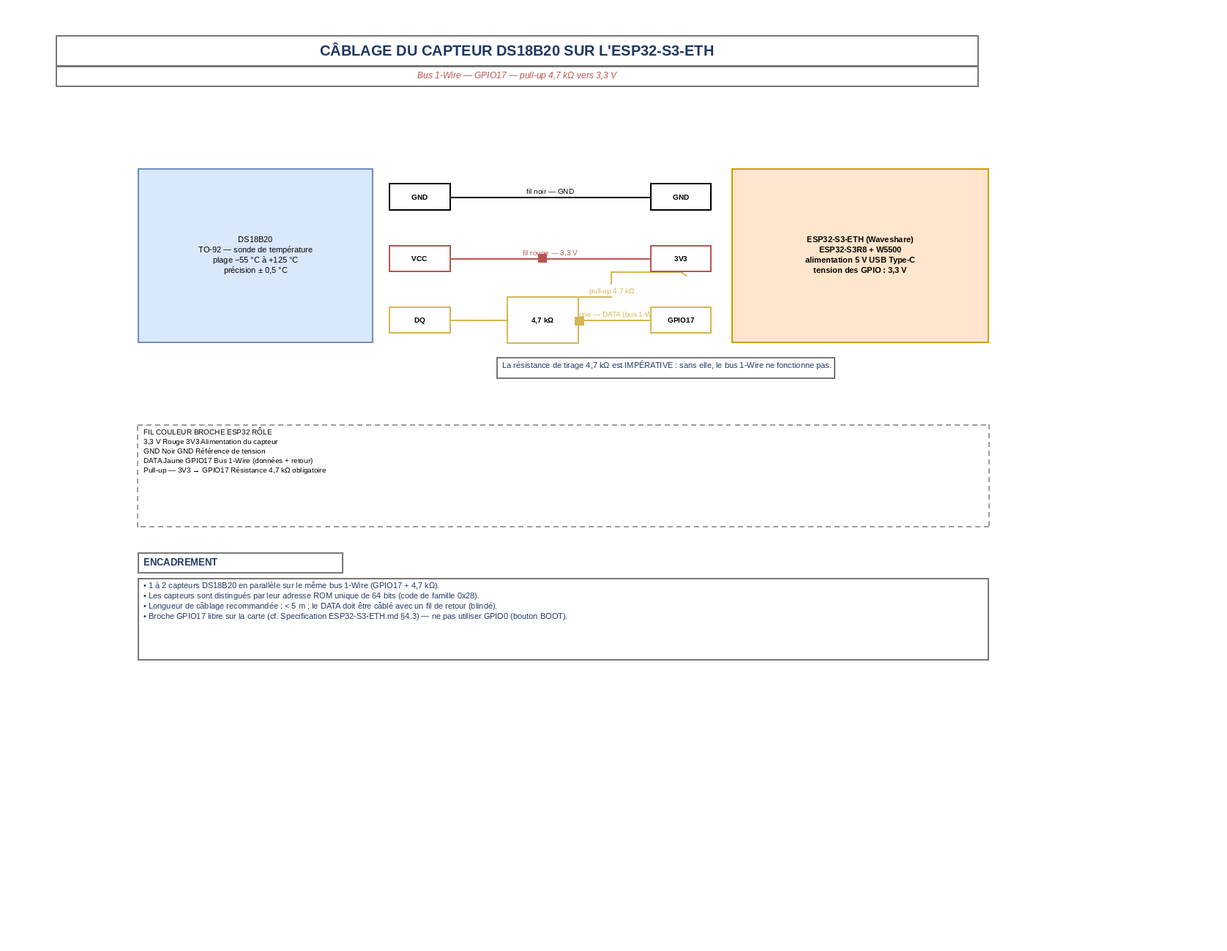
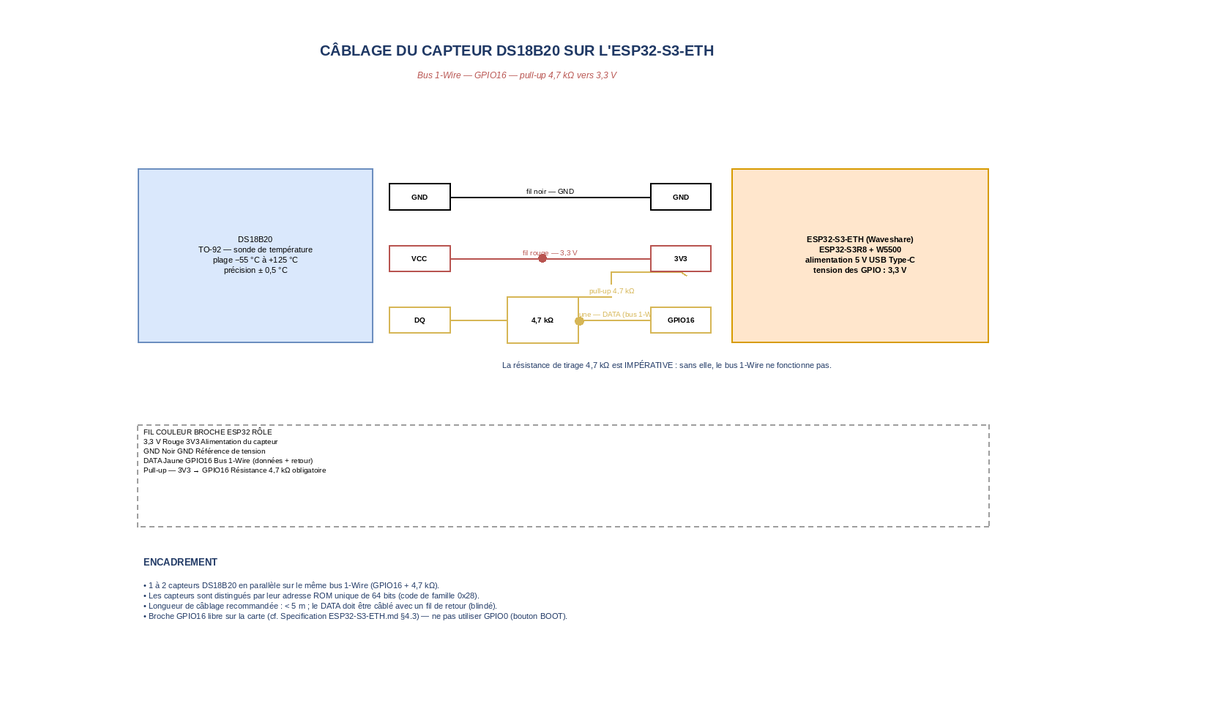
Integre les croquis manuscrits, passe en GPIO16 et fiabilise les schemas
- images/recto.jpg et images/verso.jpg : croquis de travail manuscrits
  (plan d'implantation des batiments, architecture, cas d'utilisation)
  integres dans le cahier des charges (5.3, 5.8, 5.10)

- GPIO17 -> GPIO16 sur tous les documents et schemas (broche libre, non
  utilisee par le W5500, la carte TF ni l'interface camera)

- Topologie alignee sur les croquis : firewall en salle machine de
  Copernic, serveur de supervision (VM Debian) en salle machine de
  Fauriel (aile B), liaison Ethernet inter-sites ~2 km

- Plus aucune mention de CheckMK ni de SNMP

- Schema 5.1 : deux switchs (Copernic / Fauriel), VM en salle 2
- Schema 5.4 : plan detaille (bureau DSI, salle 0-13, ailes A/B/C,
  1 baie serveur + 2 baies switch, 2 km)
- Schemas 5.3 / 5.6 : acteurs UML corrects (silhouettes, nom sous la
  figure), apercus PNG regeneres
- schema cablage.png : regenere sur la nouvelle topologie

diff --git a/Cahier des charges capteur de température.md b/Cahier des charges capteur de température.md
@@ -7,7 +7,7 @@
 | **Projet** | Supervision thermique des salles serveurs |
 | **Porteurs** | Établissements IRUP (bâtiment Copernic) et ISTP (bâtiment Fauriel) |
 | **Auteur** | Noah THEVENON — BTS CIEL 2025 |
-| **Documents liés** | [Spécification ESP32-S3-ETH](./Specification%20ESP32-S3-ETH.md) · [Schémas Draw.io](./schemas/) |
+| **Documents liés** | [Spécification ESP32-S3-ETH](./Specification%20ESP32-S3-ETH.md) · [Schémas Draw.io](./schemas/) · [Croquis de travail](./images/) |
 
 ---
 
@@ -15,8 +15,9 @@
 
 **Infrastructure de l'IRUP et de l'ISTP**
 
-- Les établissements IRUP (bâtiment **Copernic**) et ISTP (bâtiment **Fauriel**) disposent chacun d'une **salle serveurs**, soit **2 salles serveurs** au total.
+- Les établissements IRUP (bâtiment **Copernic**, 2 rue Copernic) et ISTP (bâtiment **Fauriel**) disposent chacun d'une **salle serveurs**, soit **2 salles serveurs** au total.
 - Ces salles hébergent des **équipements critiques** : serveurs, équipements réseau, firewall.
+- Les deux bâtiments sont distants d'environ **2 km** et sont reliés par le **réseau Ethernet** de l'établissement (salle machine → salle machine).
 - Une **panne de climatisation** peut provoquer une surchauffe des équipements informatiques et perturber les services.
 - **Aucune supervision thermique automatisée** n'est en place.
 - Extension prévue à la salle machine de BTS CIEL.
@@ -38,12 +39,12 @@ Surveiller en continu la température des salles serveurs et être alerté autom
 
 - Surveiller la température des deux salles serveurs **en continu**.
 - Alerter automatiquement en cas de température dépassant une plage autorisée.
-- Afficher les températures sur un écran dans le bureau informatique.
+- Afficher les températures sur un écran dans le bureau DSI.
 - Rendre les données consultables sur une **page Web de supervision**.
 - Conserver un **historique** des températures de chaque salle.
 - Permettre la **gestion des utilisateurs** ( Administrateur et User ).
 
-> Les seuils, la périodicité de mesure et la durée de conservation de l'historique sont les **critères de validation** du projet : ils sontulfillables et mesurables (§4.3, §5.7).
+> Les seuils, la périodicité de mesure et la durée de conservation de l'historique sont les **critères de validation** du projet : ils sont fulfillables et mesurables (§4.3, §5.7).
 
 ---
 
@@ -61,7 +62,7 @@ Le système devra :
 | F4 | **Historiser** | Enregistrer les mesures en base de données pour permettre la consultation et l'analyse des tendances. |
 | F5 | **Alerter** | Gérer plusieurs types d'alertes selon les seuils de température (normal / avertissement / critique). |
 | F6 | **Notifier** | Envoyer un **email** en cas de dépassement critique. |
-| F7 | **Restituer** | Permettre un affichage permanent des températures dans le bureau informatique. |
+| F7 | **Restituer** | Permettre un affichage permanent des températures dans le bureau DSI. |
 | F8 | **Administrer** | Gérer les utilisateurs (**Administrateur** et **User**) et les paramètres de seuil. |
 
 ### 4.2 Périmètre
@@ -73,7 +74,7 @@ Le système devra :
 - Publication des mesures en **MQTT** vers le broker, abonnement par le collecteur et par la page Web.
 - Enregistrement de l'historique des températures en base de données.
 - Alerte par email en cas de température trop élevée.
-- Affichage des températures sur un écran dans le bureau informatique.
+- Affichage des températures sur un écran dans le bureau DSI.
 - Authentification des utilisateurs et gestion des comptes.
 
 **Non inclus dans le projet — évolutions prévues**
@@ -92,71 +93,55 @@ Le système devra :
 | **Destinataire de l'alerte** | Liste de distribution du **service informatique** (adresse à définir avec le service) |
 | **Sécurité du broker** | Authentification par **identifiant / mot de passe** ; le broker n'accepte les connexions que sur le VLAN **Supervision** (ports 1883 et 9001) |
 | **Sécurité du Web** | Page servie en **HTTPS** (certificat), accès réservé aux comptes autorisés |
+| **Emplacement du serveur** | VM Debian dans la **salle machine de Fauriel** (aile B), joignable depuis Copernic par la liaison Ethernet inter-sites (~2 km) |
 
 ---
 
 ## 5. Synoptique
 
-> **Évolution de l'architecture :** la supervision n'est plus assurée par un serveur CheckMK et n'utilise plus le protocole SNMP. Elle est assurée par une **page Web de supervision dédiée**, alimentée par **MQTT** (broker Mosquitto), avec un traitement des seuils et l'envoi des alertes **réalisés côté serveur** (collecteur) : l'alerte est donc émise même si l'écran du bureau informatique est éteint.
+> **Principe retenu :** la supervision repose sur une **page Web de supervision dédiée**, alimentée par **MQTT** (broker Mosquitto), avec un traitement des seuils et l'envoi des alertes **réalisés côté serveur** (collecteur) : l'alerte est donc émise même si l'écran du bureau DSI est éteint.
 
-Tous les schémas sont éditables dans [`schemas/`](./schemas/) (fichiers `.drawio`, à ouvrir avec [app.diagrams.net](https://app.diagrams.net) ou l'extension VS Code *Draw.io Integration*). Des **aperçus PNG** sont disponibles dans [`schemas/apercus/`](./schemas/apercus/).
+Tous les schémas sont éditables dans [`schemas/`](./schemas/) (fichiers `.drawio`, à ouvrir avec [app.diagrams.net](https://app.diagrams.net) ou l'extension VS Code *Draw.io Integration*). Des **aperçus PNG** sont disponibles dans [`schemas/apercus/`](./schemas/apercus/). Les **croquis de travail manuscrits** sont conservés dans [`images/`](./images/) et intégrés ci-dessous.
 
 ### 5.1 Chaîne fonctionnelle
 
 ```text
-   SALLE COPERNIC (IRUP)              SALLE FAURIEL (ISTP)
-  ┌────────────────────────────┐    ┌────────────────────────────┐
-  │DS18B20 #1  (T1)            │    │DS18B20 #3  (T3)            │
-  │DS18B20 #2  (T2)            │    │DS18B20 #4  (T4)            │
-  │                            │    │                            │
-  │Bus 1-Wire  GPIO17          │    │Bus 1-Wire  GPIO17          │
-  │GND / 3V3 / DATA            │    │GND / 3V3 / DATA            │
-  │pull-up 4,7 kΩ              │    │pull-up 4,7 kΩ              │
-  └────────────────────────────┘    └────────────────────────────┘
-                 │                                 │
-  ┌────────────────────────────┐    ┌────────────────────────────┐
-  │ESP32-S3-ETH #1             │    │ESP32-S3-ETH #2             │
-  │Ethernet W5500              │    │Ethernet W5500              │
-  │IP fixe 192.168.1.11        │    │IP fixe 192.168.1.12        │
-  │Client MQTT                 │    │Client MQTT                 │
-  └────────────────────────────┘    └────────────────────────────┘
-                 │  Ethernet 10/100 Mbps           │  (~2 km)
-                 └───────────────┬─────────────────┘
-                                 ▼
-                  ┌──────────────────────────────┐
-                  │Switch — VLAN Supervision     │
-                  └──────────────────────────────┘
-                                 │  Ethernet
-                                 ▼
-                  ┌──────────────────────────────┐
-                  │Firewall                      │
-                  │filtrage / cloisonnement VLAN │
-                  └──────────────────────────────┘
-                                 │  Ethernet
-                                 ▼
-   ┌──────────────────────────────────────────────────────────────┐
-   │ SERVEUR DE SUPERVISION — VM Debian (salle machine Copernic)  │
-   │                          IP 192.168.1.10                     │
-   ├──────────────────────┬──────────────────────────────────────┤
-   │ Broker MQTT          │ Collecteur MQTT                       │
-   │ Mosquitto            │  • abonne temperature/# et statut/#   │
-   │ TCP 1883 / WS 9001   │  • écrit l'historique en BDD          │
-   │ QoS 1 — retain       │  • applique les règles de seuil       │
-   ├──────────────────────┼──────────────────────────────────────┤
-   │ Page Web (PHP + JS)  │ Base de données                       │
-   │ temps réel (WS 9001) │ historique + utilisateurs + seuils    │
-   ├──────────────────────┴──────────────────────────────────────┤
-   │ Règles de seuil :  T < 27 °C : Normal                       │
-   │                   27 ≤ T < 35 °C : Avertissement             │
-   │                   T ≥ 35 °C : Critique                       │
-   ├──────────────────────┬──────────────────────────────────────┤
-   │ Alerte email         │ Écran bureau informatique             │
-   │ Service informatique │ affichage permanent                   │
-   └──────────────────────┴──────────────────────────────────────┘
-                                 │
-        PUBLISH   temperature/<salle>/<capteur>   (JSON)
-        RETAIN    dernière valeur conservée par le broker
-        LWT       statut/<équipement> = online / offline
+   SALLE 1 — COPERNIC (IRUP)                 SALLE 2 — FAURIEL (ISTP)
+  ┌──────────────────────────────┐        ┌──────────────────────────────┐
+  │ DS18B20 #1 (T1) / #2 (T2)   │        │ DS18B20 #3 (T3) / #4 (T4)   │
+  │ Bus 1-Wire — GPIO16         │        │ Bus 1-Wire — GPIO16         │
+  │ pull-up 4,7 kΩ              │        │ pull-up 4,7 kΩ              │
+  │ ESP32-S3-ETH #1             │        │ ESP32-S3-ETH #2             │
+  │ IP fixe 192.168.1.11        │        │ IP fixe 192.168.1.12        │
+  └──────────────┬───────────────┘        └──────────────┬───────────────┘
+                 │ Ethernet                              │ Ethernet
+                 ▼                                       ▼
+  ┌──────────────────────────────┐        ┌──────────────────────────────┐
+  │ Switch — salle machine       │        │ Switch — salle machine       │
+  │ Copernic                     │        │ Fauriel (1 baie serveur +   │
+  │ Firewall                     │        │ 2 baies switch)              │
+  │ (cloisonnement VLAN)         │        └──────────────┬───────────────┘
+  └──────────────┬───────────────┘                       │ Ethernet
+                 │ Ethernet — liaison inter-sites ~2 km    ▼
+                 └────────────────────────────────►┌──────────────────────────┐
+                                                     │ SERVEUR DE SUPERVISION  │
+                                                     │ VM Debian — 192.168.1.10│
+                                                     │ (salle machine Fauriel) │
+                                                     ├────────────┬─────────────┤
+                                                     │ Broker MQTT│ Collecteur  │
+                                                     │ Mosquitto  │ seuils+BDD  │
+                                                     │ 1883/9001  │             │
+                                                     ├────────────┼─────────────┤
+                                                     │ Base de    │ Page Web    │
+                                                     │ données    │ Apache2+PHP │
+                                                     ├────────────┴─────────────┤
+                                                     │ Alerte email │ Écran      │
+                                                     │ service info │ bureau DSI │
+                                                     └──────────────────────────┘
+
+  PUBLISH   temperature/<salle>/<capteur>   (JSON)
+  RETAIN    dernière valeur conservée par le broker
+  LWT       statut/<équipement> = online / offline
 ```
 
 📐 **Schéma draw.io — Chaîne fonctionnelle :** [`schemas/5.1-chaine-fonctionnelle.drawio`](./schemas/5.1-chaine-fonctionnelle.drawio)
@@ -174,7 +159,7 @@ Câblage du capteur DS18B20 sur une carte ESP32-S3-ETH :
   │        │                  │          │
   │  VCC   ├──────┬───────────┤ 3V3      │
   │        │      │           │          │
-  │  DQ    ├──────┴───────────┤ GPIO17   │  bus 1-Wire
+  │  DQ    ├──────┴───────────┤ GPIO16   │  bus 1-Wire
   │        │   ┌───┴───┐      └──────────┘
   │        │   │▭▭▭▭▭▭│  4,7 kΩ
   │        │   └───┬───┘  (pull-up vers 3,3 V)
@@ -191,14 +176,18 @@ Câblage du capteur DS18B20 sur une carte ESP32-S3-ETH :
 |---------|---------|---------------|--------------------------------|
 | 3,3 V   | Rouge   | 3V3           | Alimentation du capteur        |
 | GND     | Noir    | GND           | Référence de tension           |
-| DATA    | Jaune   | GPIO17        | Bus 1-Wire (données + retour)  |
-| Pull-up | —       | 3V3 → GPIO17  | Résistance 4,7 kΩ obligatoire  |
+| DATA    | Jaune   | GPIO16        | Bus 1-Wire (données + retour)  |
+| Pull-up | —       | 3V3 → GPIO16  | Résistance 4,7 kΩ obligatoire  |
 
-Le nœud de mesure ESP32-S3-ETH peut embarquer 1 à 2 capteurs DS18B20 en parallèle sur le même bus 1-Wire (GPIO17 + 4,7 kΩ) ; les capteurs sont alors distingués par leur adresse unique de 64 bits (code de famille `0x28`).
+Le nœud de mesure ESP32-S3-ETH peut embarquer 1 à 2 capteurs DS18B20 en parallèle sur le même bus 1-Wire (GPIO16 + 4,7 kΩ) ; les capteurs sont alors distingués par leur adresse unique de 64 bits (code de famille `0x28`).
 
-> **Pourquoi GPIO17 ?** La carte réserve GPIO17 pour le bus 1-Wire (broche libre et non mutualisée avec le W5500, la carte TF ou l'interface caméra) — cf. [Spécification ESP32-S3-ETH](./Specification%20ESP32-S3-ETH.md) §4.3.
+> **Pourquoi GPIO16 ?** La broche est **libre** sur la carte et n'est ni utilisée par le contrôleur Ethernet W5500, ni par la carte TF, ni par l'interface caméra — cf. [Spécification ESP32-S3-ETH](./Specification%20ESP32-S3-ETH.md) §4.3.
 
 ### 5.3 Architecture logique du serveur de supervision
+
+📸 **Croquis de travail manuscrit (verso) :** le schéma réalisé à la main a servi de base à la version normalisée ci-dessous.
+
+![Croquis manuscrit — architecture et cas d'utilisation](./images/verso.jpg)
 
 ```mermaid
 flowchart LR
@@ -212,7 +201,7 @@ flowchart LR
         CA4["🌡 Capteur 4 (T4)"] --> E2
     end
 
-    subgraph SRV["🖥 Serveur de supervision — VM Debian (salle machine Copernic)"]
+    subgraph SRV["🖥 Serveur de supervision — VM Debian (salle machine Fauriel)"]
         BRK(["Broker MQTT<br/>Mosquitto"]) --> COL(["Collecteur<br/>de messages"])
         COL -->|SQL| BDD[("BDD<br/>historique")]
         COL --> GA["Gestionnaire<br/>d'alertes"]
@@ -224,8 +213,8 @@ flowchart LR
     E1 -->|"MQTT (JSON)"| BRK
     E2 -->|"MQTT (JSON)"| BRK
     BRK -.->|"WebSocket 9001<br/>temps réel"| PHP
-    PM -->|"📧 Email"| ADM["👤 Service informatique"]
-    ADM <-->|HTTP| AP
+    PM -->|"📧 Email"| SVC["👤 Service informatique"]
+    SVC <-->|HTTP| AP
     USR["👤 User"] <-->|HTTP| AP
 ```
 
@@ -282,14 +271,15 @@ Exemple de message publié par un ESP32 :
 |-------|--------------------------------------|--------------------------------------------------------|
 | 1     | Capteurs DS18B20 (1 à 2 par salle)   | Mesure de la température                               |
 | 2     | ESP32-S3-ETH (1 par salle)           | Lecture 1-Wire, mise en forme JSON, publication MQTT   |
-| 3     | Switch — VLAN Supervision            | Transport des données Ethernet                         |
-| 4     | Firewall                             | Filtrage et cloisonnement du VLAN Supervision          |
-| 5     | Broker MQTT Mosquitto                | Réception, conservation (retain) et distribution       |
-| 6     | Collecteur (serveur)                 | Application des seuils, écriture de l'historique       |
-| 7     | Base de données                      | Historique des températures, comptes et seuils         |
-| 8     | Page Web de supervision              | Affichage temps réel et historique, gestion des comptes |
-| 9     | Notification email                   | Alerte au service informatique                         |
-| 10    | Écran bureau informatique            | Affichage permanent                                    |
+| 3     | Switch — salle machine               | Transport des données Ethernet                         |
+| 4     | Firewall (salle machine Copernic)    | Filtrage et cloisonnement du VLAN Supervision          |
+| 5     | Liaison Ethernet inter-sites (~2 km) | Transport entre les deux bâtiments                    |
+| 6     | Broker MQTT Mosquitto                | Réception, conservation (retain) et distribution       |
+| 7     | Collecteur (serveur)                 | Application des seuils, écriture de l'historique       |
+| 8     | Base de données                      | Historique des températures, comptes et seuils         |
+| 9     | Page Web de supervision              | Affichage temps réel et historique, gestion des comptes |
+| 10    | Notification email                   | Alerte au service informatique                         |
+| 11    | Écran bureau DSI                     | Affichage permanent                                    |
 
 ### 5.6 Adressage IP
 
@@ -297,8 +287,8 @@ Exemple de message publié par un ESP32 :
 |------------------------------------------------|----------------|--------------|
 | ESP32-S3-ETH #1 (Copernic)                     | 192.168.1.11   | Supervision  |
 | ESP32-S3-ETH #2 (Fauriel)                      | 192.168.1.12   | Supervision  |
-| Serveur de supervision (Mosquitto + page Web)  | 192.168.1.10   | Supervision  |
-| Poste du bureau informatique                   | Via DHCP       | Bureau       |
+| Serveur de supervision (VM Debian, Fauriel)    | 192.168.1.10   | Supervision  |
+| Poste du bureau DSI (Copernic)                 | Via DHCP       | Bureau       |
 
 ### 5.7 Seuils de température *(à valider)*
 
@@ -312,29 +302,41 @@ Les règles de seuil sont appliquées **par le collecteur**, à réception de ch
 
 ### 5.8 Implantation des sites
 
+📸 **Croquis de travail manuscrit (recto)** — plan des deux bâtiments et de la liaison réseau :
+
+![Croquis manuscrit — plan d'implantation des bâtiments](./images/recto.jpg)
+
 ```mermaid
 flowchart LR
     subgraph COP["🏢 Bâtiment Copernic — 2 rue Copernic (IRUP)"]
         direction TB
-        C_DSI["Bureau DSI<br/>(2ᵉ étage)<br/>écran de supervision"]
-        C_SM["Salle machine<br/>(2ᵉ étage)<br/>switch + firewall<br/>VM serveur de supervision"]
+        C_DSI["Bureau DSI<br/>2ᵉ étage<br/>écran de supervision"]
+        C_SM["Salle machine<br/>2ᵉ étage<br/>Switch + Firewall"]
         C_013["Salle 0-13"]
     end
 
     subgraph FAU["🏢 Bâtiment Fauriel — 2ᵉ étage (ISTP)"]
         direction TB
-        F_SM["Salle machine (aile B)<br/>1 baie serveur + 2 baies switch<br/>ESP32-S3-ETH #2"]
+        F_SM["Salle machine (aile B)<br/>1 baie serveur + 2 baies switch<br/>Serveur de supervision (VM Debian)"]
         F_DSI["Bureau DSI (aile A)"]
     end
 
-    C_SM <-->|"Liaison réseau inter-sites (~2 km)"| F_SM
+    C_SM <-->|"Liaison Ethernet inter-sites (~2 km)"| F_SM
 ```
 
 📐 **Schéma draw.io — Implantation des sites :** [`schemas/5.4-implantation-sites.drawio`](./schemas/5.4-implantation-sites.drawio)
 
 ![Implantation des sites](./schemas/apercus/5.4-implantation-sites.png)
 
-> Le firewall et le serveur de supervision sont hébergés dans la salle machine du bâtiment Copernic : l'ESP32 de Fauriel accède au broker MQTT par la liaison inter-sites (~2 km).
+| Site | Local | Contenu |
+|------|-------|---------|
+| Copernic (2ᵉ étage) | Bureau DSI | Poste de supervision, écran d'affichage permanent |
+| Copernic (2ᵉ étage) | Salle machine | Switch, firewall, départ de la liaison inter-sites |
+| Copernic | Salle 0-13 | Hors périmètre du projet |
+| Fauriel (2ᵉ étage, aile B) | Salle machine | 1 baie serveur + 2 baies switch, VM Debian (serveur de supervision) |
+| Fauriel (2ᵉ étage, aile A) | Bureau DSI | Bureau du service informatique |
+
+> Le firewall est installé dans la salle machine de **Copernic** ; le serveur de supervision est installé dans la salle machine de **Fauriel**. La liaison Ethernet inter-sites (~2 km) assure le dialogue entre les deux.
 
 ### 5.9 Serveur Web
 
@@ -351,6 +353,10 @@ flowchart LR
 ![Serveur Web](./schemas/apercus/5.5-serveur-web.png)
 
 ### 5.10 Diagramme de cas d'utilisation
+
+📸 **Croquis de travail manuscrit (verso, partie basse)** — diagramme de cas d'utilisation réalisé à la main :
+
+![Croquis manuscrit — cas d'utilisation](./images/verso.jpg)
 
 ```mermaid
 flowchart LR

diff --git a/Specification ESP32-S3-ETH.md b/Specification ESP32-S3-ETH.md
@@ -111,8 +111,8 @@ const int gpio_pin[] = { 21, 17, 16, 18, 15, 3, 2, 1, 0, 44,  43, 38, 39, 40, 41
 
 | Broche | Disponibilité | Usage recommandé |
 |---|---|---|
-| **GPIO17** | Libre | **1-Wire (DS18B20)** — avec résistance de tirage 4,7 kΩ vers 3,3 V |
-| **GPIO16** | Libre | 1-Wire secondaire / 2ᵉ capteur (bus multi-capteurs en parallèle) |
+| **GPIO16** | Libre | **1-Wire (DS18B20)** — avec résistance de tirage 4,7 kΩ vers 3,3 V |
+| **GPIO17** | Libre | 1-Wire secondaire / 2ᵉ capteur (bus multi-capteurs en parallèle) |
 | **GPIO43 / GPIO44** | Libres | Bus I²C (capteur MIMO, AHT20, BME280…) |
 | GPIO0 | Libre mais câblée au bouton BOOT | À éviter (risque d'extinction de la carte) |
 | GPIO4-7 | Libres si pas de carte TF | SPI (capteur type MAX6675) |
@@ -205,7 +205,7 @@ const int gpio_pin[] = { 21, 17, 16, 18, 15, 3, 2, 1, 0, 44,  43, 38, 39, 40, 41
  ┌────────────────────┐                ┌────────────────────┐
  │ ESP32-S3-ETH #1    │                │ ESP32-S3-ETH #2    │
  │ DS18B20 ×2         │                │ DS18B20 ×2         │
- │ (GPIO17, 1-Wire)   │                │ (GPIO17, 1-Wire)   │
+ │ (GPIO16, 1-Wire)   │                │ (GPIO16, 1-Wire)   │
  │ IP : 192.168.1.11  │                │ IP : 192.168.1.12  │
  │ Client MQTT        │                │ Client MQTT        │
  └─────────┬──────────┘                └─────────┬──────────┘
@@ -233,7 +233,7 @@ const int gpio_pin[] = { 21, 17, 16, 18, 15, 3, 2, 1, 0, 44,  43, 38, 39, 40, 41
                 └────────────┘  └──────────────┘
 ```
 
-> **Note d’architecture :** la supervision repose désormais sur une **page Web de supervision** alimentée par **MQTT** (broker Mosquitto). Il n’y a **plus de serveur CheckMK** et le protocole **SNMP n’est pas utilisé**. Le firewall assure le cloisonnement du VLAN Supervision entre le réseau des salles serveurs et le réseau du bureau informatique.
+> **Note d’architecture :** la supervision repose sur une **page Web de supervision** alimentée par **MQTT** (broker Mosquitto). Le firewall assure le cloisonnement du VLAN Supervision entre le réseau des salles serveurs et le réseau du bureau DSI. Le serveur de supervision est une **VM Debian installée dans la salle machine de Fauriel** (aile B), joignable depuis Copernic par la liaison Ethernet inter-sites (~2 km).
 >
 > **Traitement des seuils :** l’application des règles de seuil et l’envoi de l’email sont réalisés par le **collecteur MQTT du serveur**, et non par le navigateur. L’alerte est donc émise même si l’écran du bureau informatique est éteint, et aucun doublon d’email n’est possible.
 
@@ -286,7 +286,7 @@ Un **Last Will and Testament** publié par chaque ESP32 sur `statut/<équipement
 | Capteur | T1 (entrée salle) | T3 (entrée salle) |
 | Second point de mesure | T2 (arrière salle) — à confirmer | T4 (arrière salle) — à confirmer |
 
-> **À valider :** la spécification du cahier des charges exige **au moins deux points de mesure par salle**. Une carte ne gérant qu'un seul bus 1-Wire ne peut couvrir ce besoin qu'avec deux capteurs sur le même bus (adressage par identifiant 8 bits, câblage en parallèle sur GPIO17 + 4,7 kΩ). À défaut, il faut **2 cartes par salle (soit 4 au total)**.
+> **À valider :** la spécification du cahier des charges exige **au moins deux points de mesure par salle**. Une carte ne gérant qu'un seul bus 1-Wire ne peut couvrir ce besoin qu'avec deux capteurs sur le même bus (adressage par identifiant 8 bits, câblage en parallèle sur GPIO16 + 4,7 kΩ). À défaut, il faut **2 cartes par salle (soit 4 au total)**.
 
 ### 7.5 Adressage réseau du projet
 
@@ -320,10 +320,11 @@ Un **Last Will and Testament** publié par chaque ESP32 sur `statut/<équipement
 
 - `Cahier des charges capteur de température.md` — cadrage du besoin, périmètre et synoptique
 - `schemas/5.1-chaine-fonctionnelle.drawio` — synoptique général du système
-- `schemas/5.2-cablage-ds18b20.drawio` — câblage DS18B20 / ESP32-S3-ETH (GPIO17)
+- `schemas/5.2-cablage-ds18b20.drawio` — câblage DS18B20 / ESP32-S3-ETH (GPIO16)
 - `schemas/5.3-architecture-logicielle.drawio` — architecture logicielle du serveur de supervision
 - `schemas/5.4-implantation-sites.drawio` — implantation des sites Copernic et Fauriel
 - `schemas/5.5-serveur-web.drawio` — pile serveur Web (Apache2 / PHP-FPM / BDD)
 - `schemas/5.6-cas-utilisation.drawio` — diagramme de cas d'utilisation
+- `images/recto.jpg` / `images/verso.jpg` — croquis de travail manuscrits (implantation, architecture, cas d'utilisation)
 
 > Tous les schémas sont modifiables avec [app.diagrams.net](https://app.diagrams.net) ou l’extension VS Code *Draw.io Integration*.
